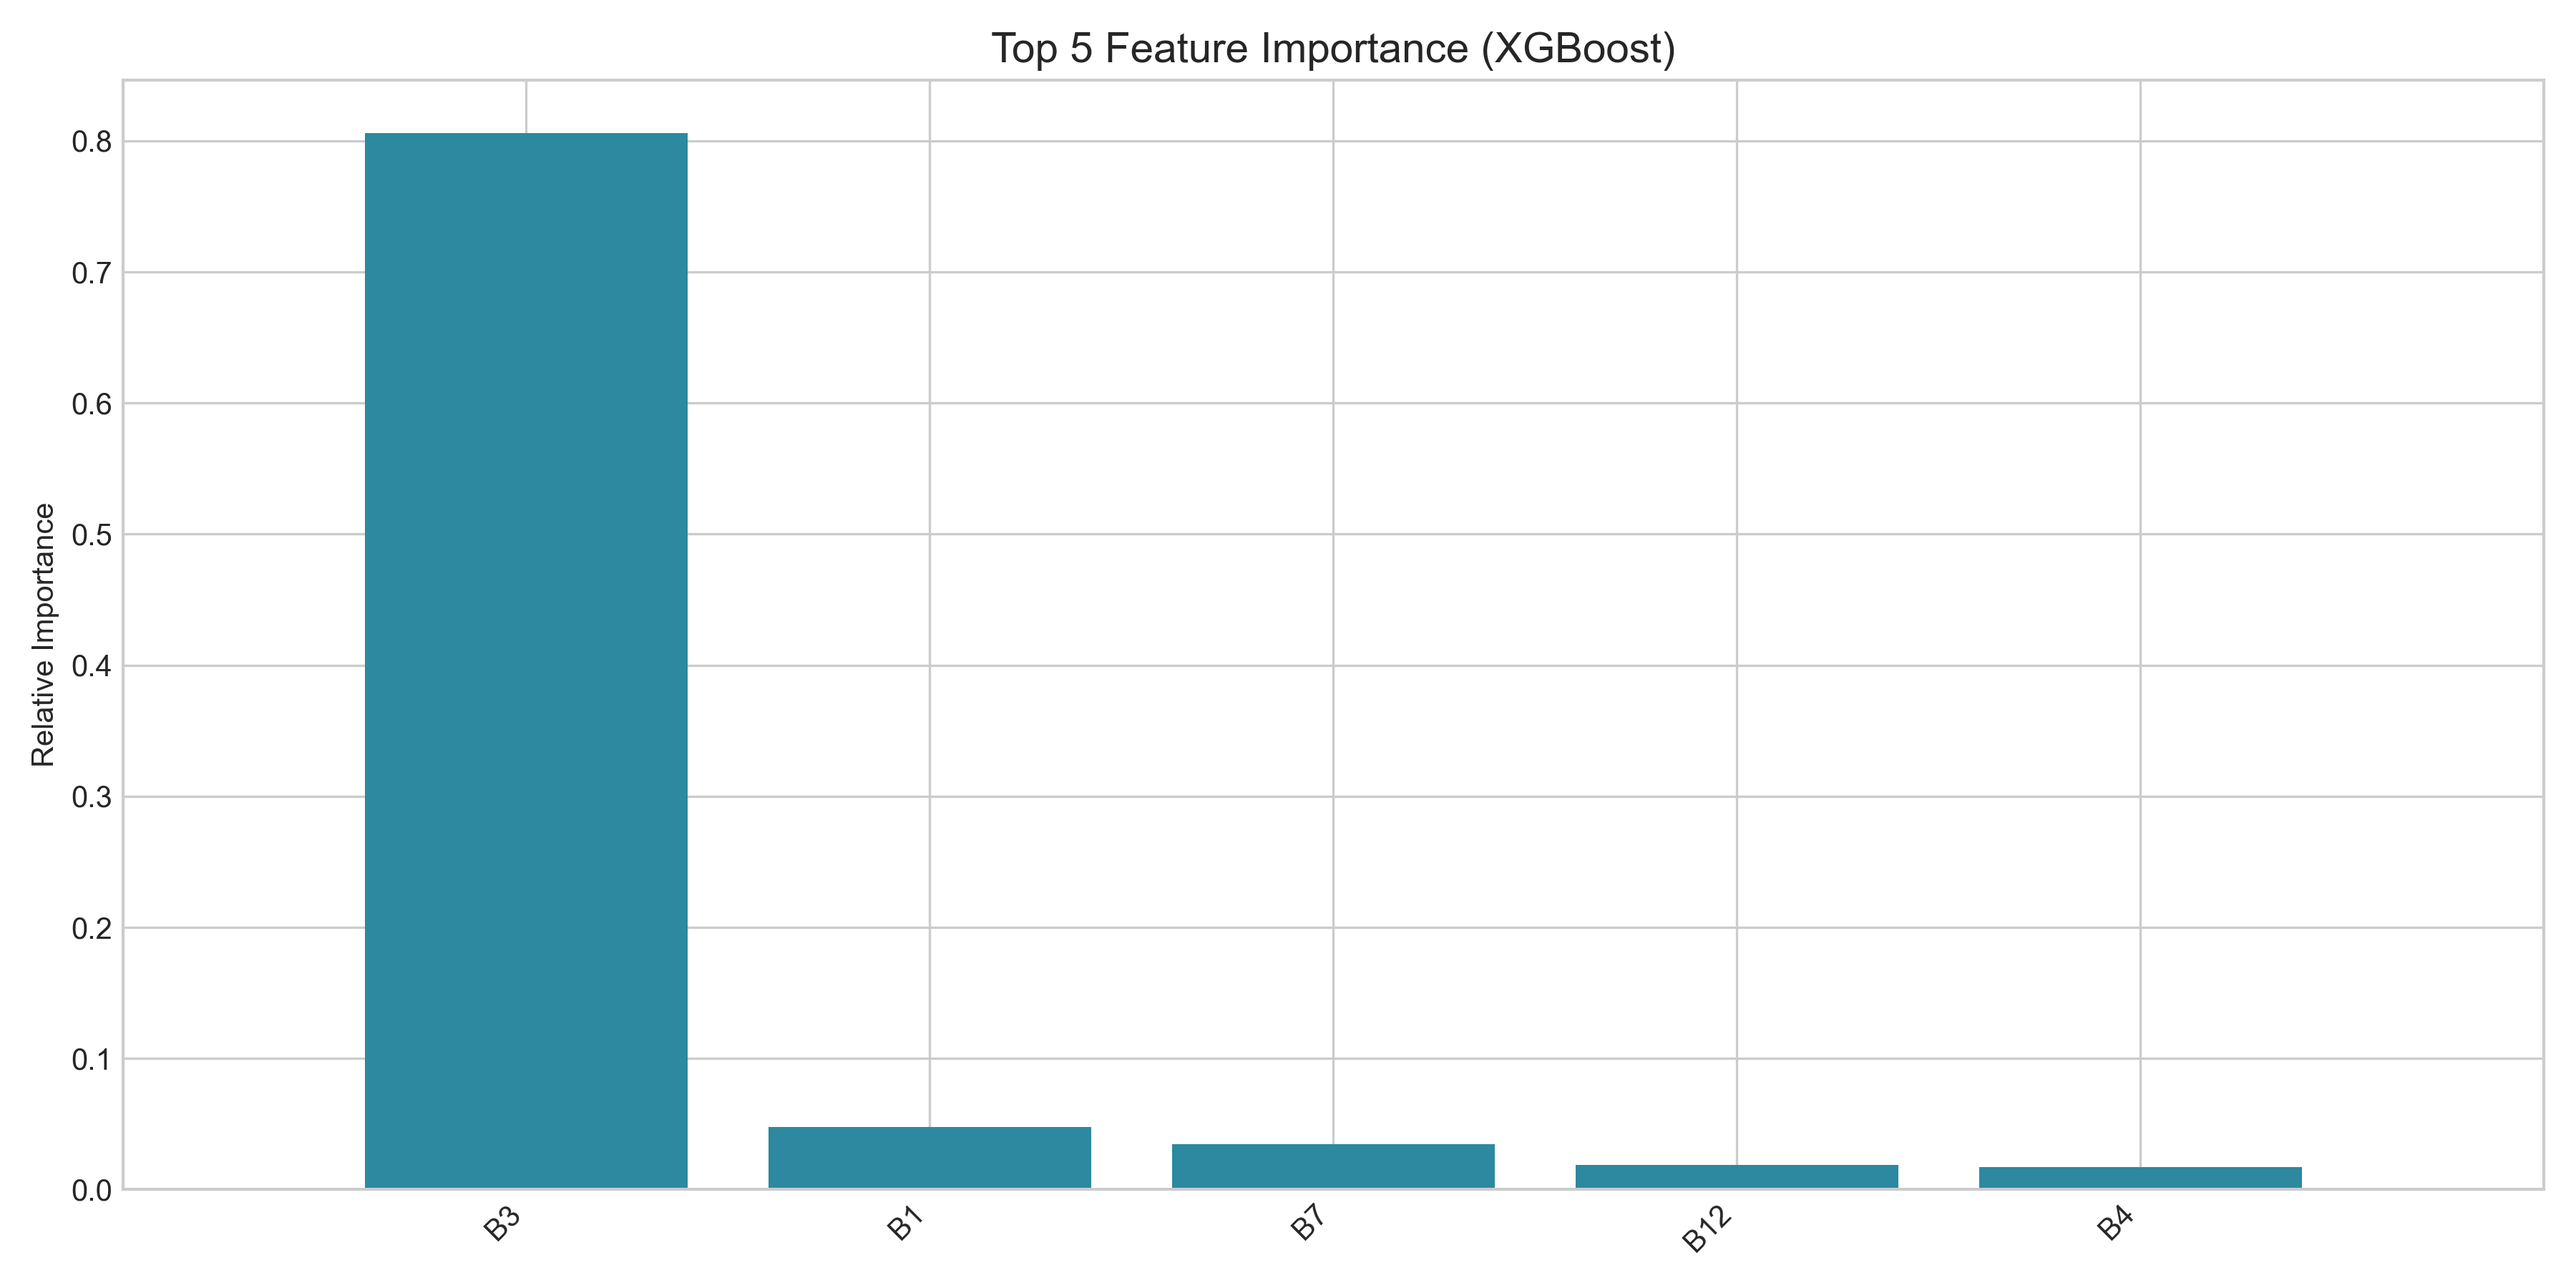
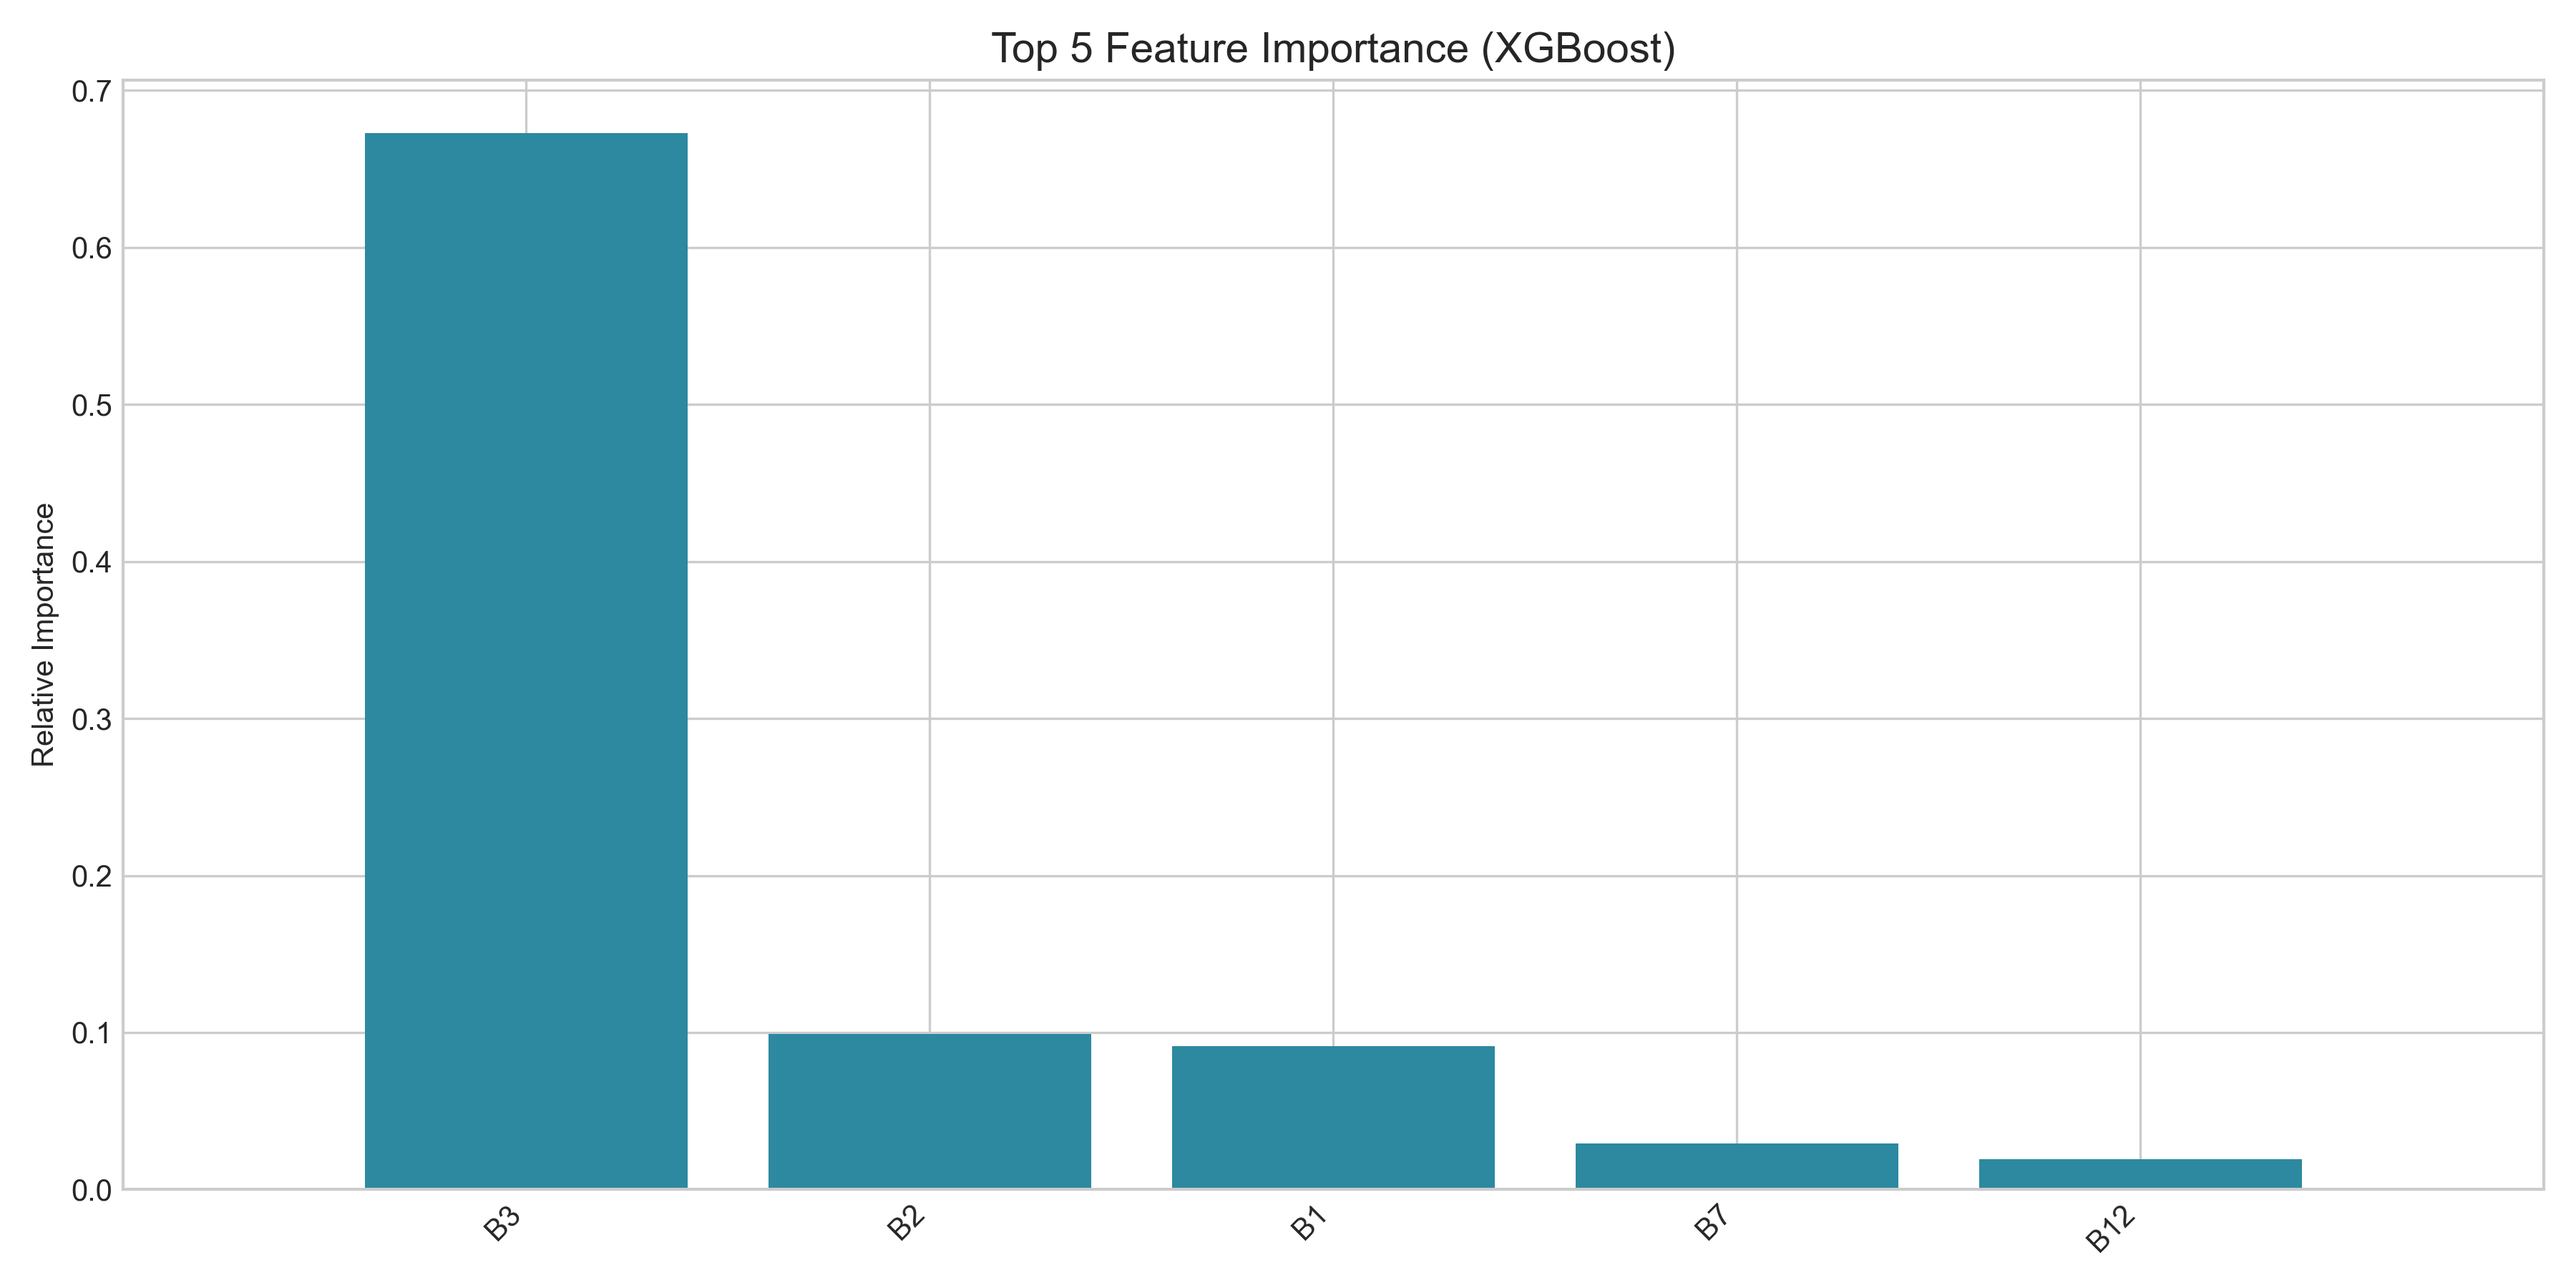
Update README.md

diff --git a/README.md b/README.md
@@ -110,7 +110,7 @@ Two parallel workflows are benchmarked: a **Standard Sentinel-2** spectral-bands
 |--------|------:|
 | R²     | 0.945 |
 | RMSE   | 1.379 m |
-| MAE    | _TBD_ |
+| MAE    | 0.9663 |
 
 **Feature Importance and Accuracy**
 
@@ -132,9 +132,9 @@ Two parallel workflows are benchmarked: a **Standard Sentinel-2** spectral-bands
 
 | Metric | Value |
 |--------|------:|
-| R²     | _TBD_ |
-| RMSE   | _TBD_ |
-| MAE    | _TBD_ |
+| R²     | 0.9453 |
+| RMSE   | 1.3786 |
+| MAE    | 0.9225 |
 
 **Feature Importance and Accuracy**
 
@@ -156,7 +156,7 @@ Ensure you have a Python environment (3.9+) set up. It is recommended to use `co
 
 ```bash
 # Clone the repository
-git clone https://github.com/mwahyur46/Satellite-Derived-Bathymetry-GeoAI.git
+git clone https://github.com/mwahyur46/satellite-derived-bathymetry-geoai.git
 
 # Install required packages
 pip install -r requirements.txt
@@ -174,4 +174,4 @@ The methodology and code structure in this repository are adapted from and inspi
 5. **Wicaksono, P., Harahap, S. D., & Hendriana, R.** (2023). Satellite-derived bathymetry from WorldView-2 based on linear and machine learning regression in the optically complex shallow water of the coral reef ecosystem of Kemujan Island. *Remote Sensing Applications Society and Environment*, 33, 101085. [https://doi.org/10.1016/j.rsase.2023.101085](https://doi.org/10.1016/j.rsase.2023.101085)
 
 ---
-*Created by [M. Wahyu R.](https://www.linkedin.com/in/mwahyur) | 2025*
+*Created by [M. Wahyu R.](https://www.linkedin.com/in/mwahyur) | 2026*
